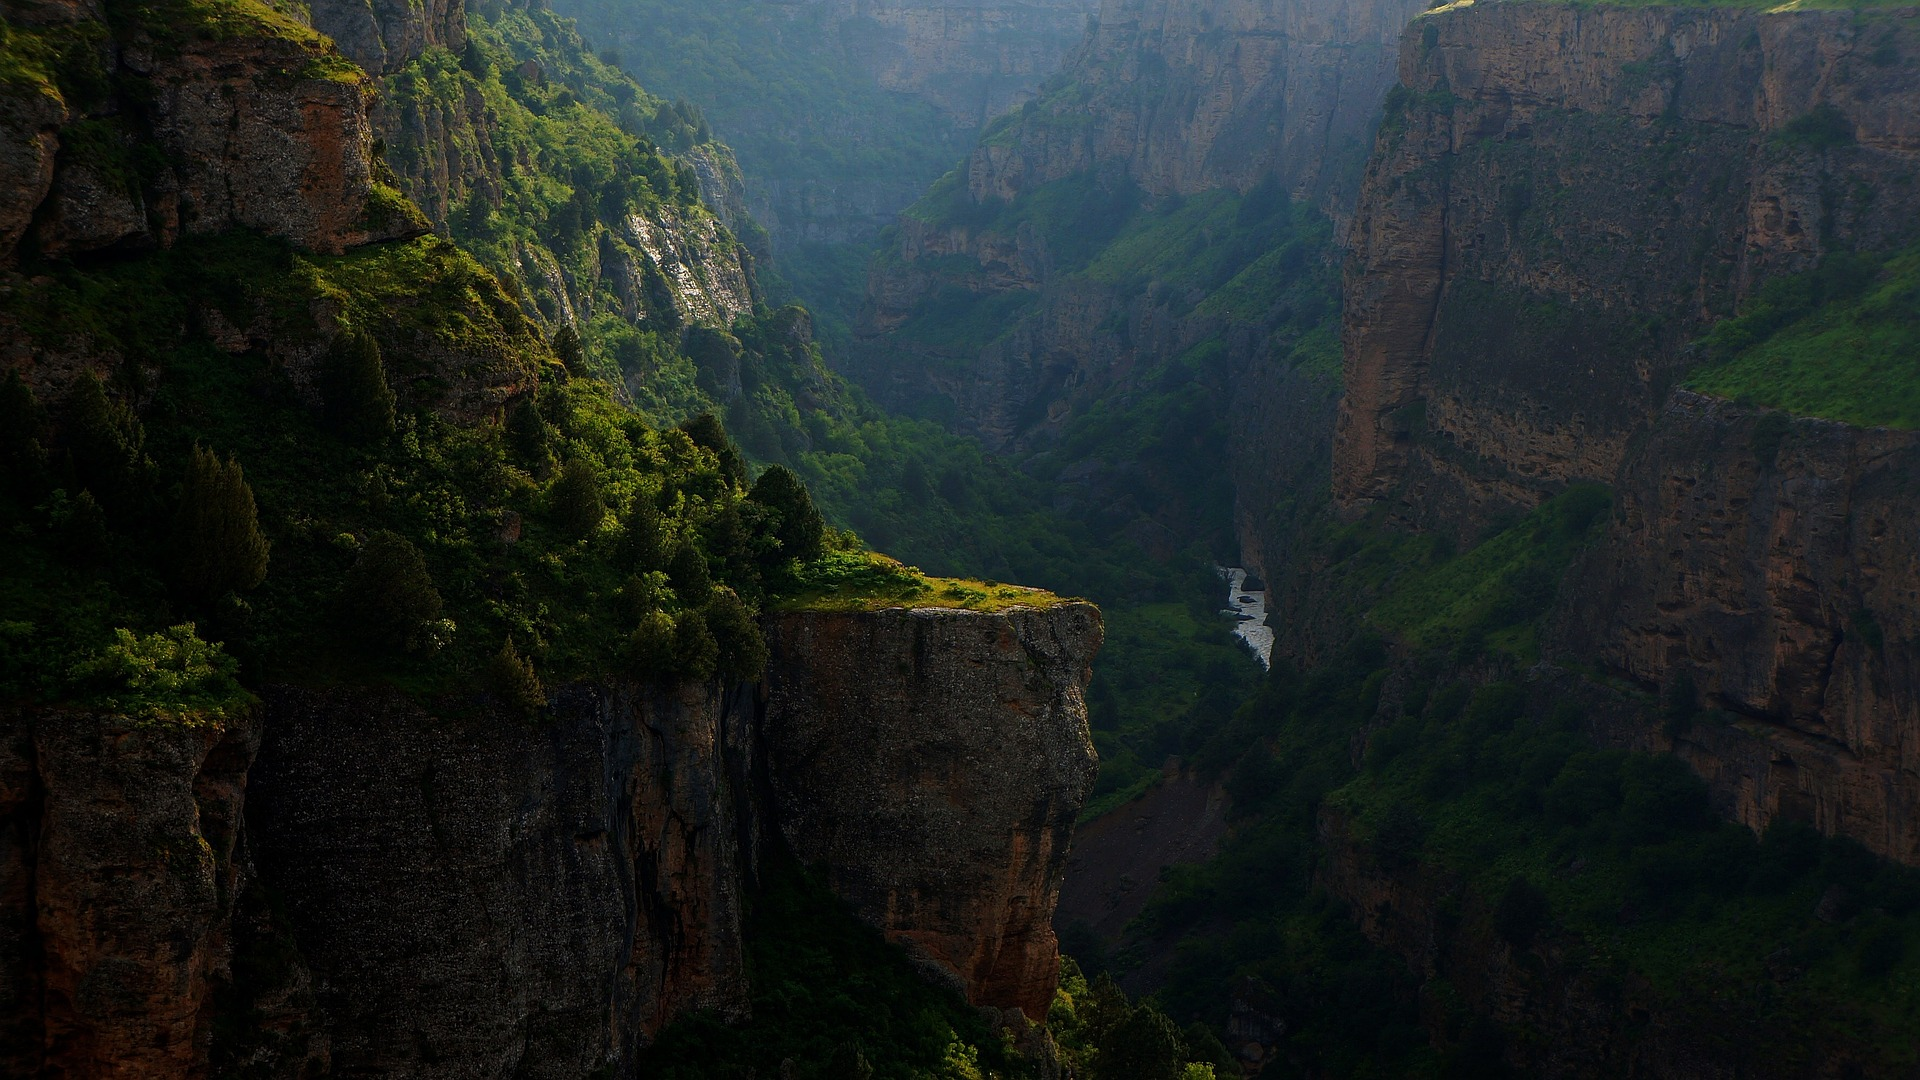
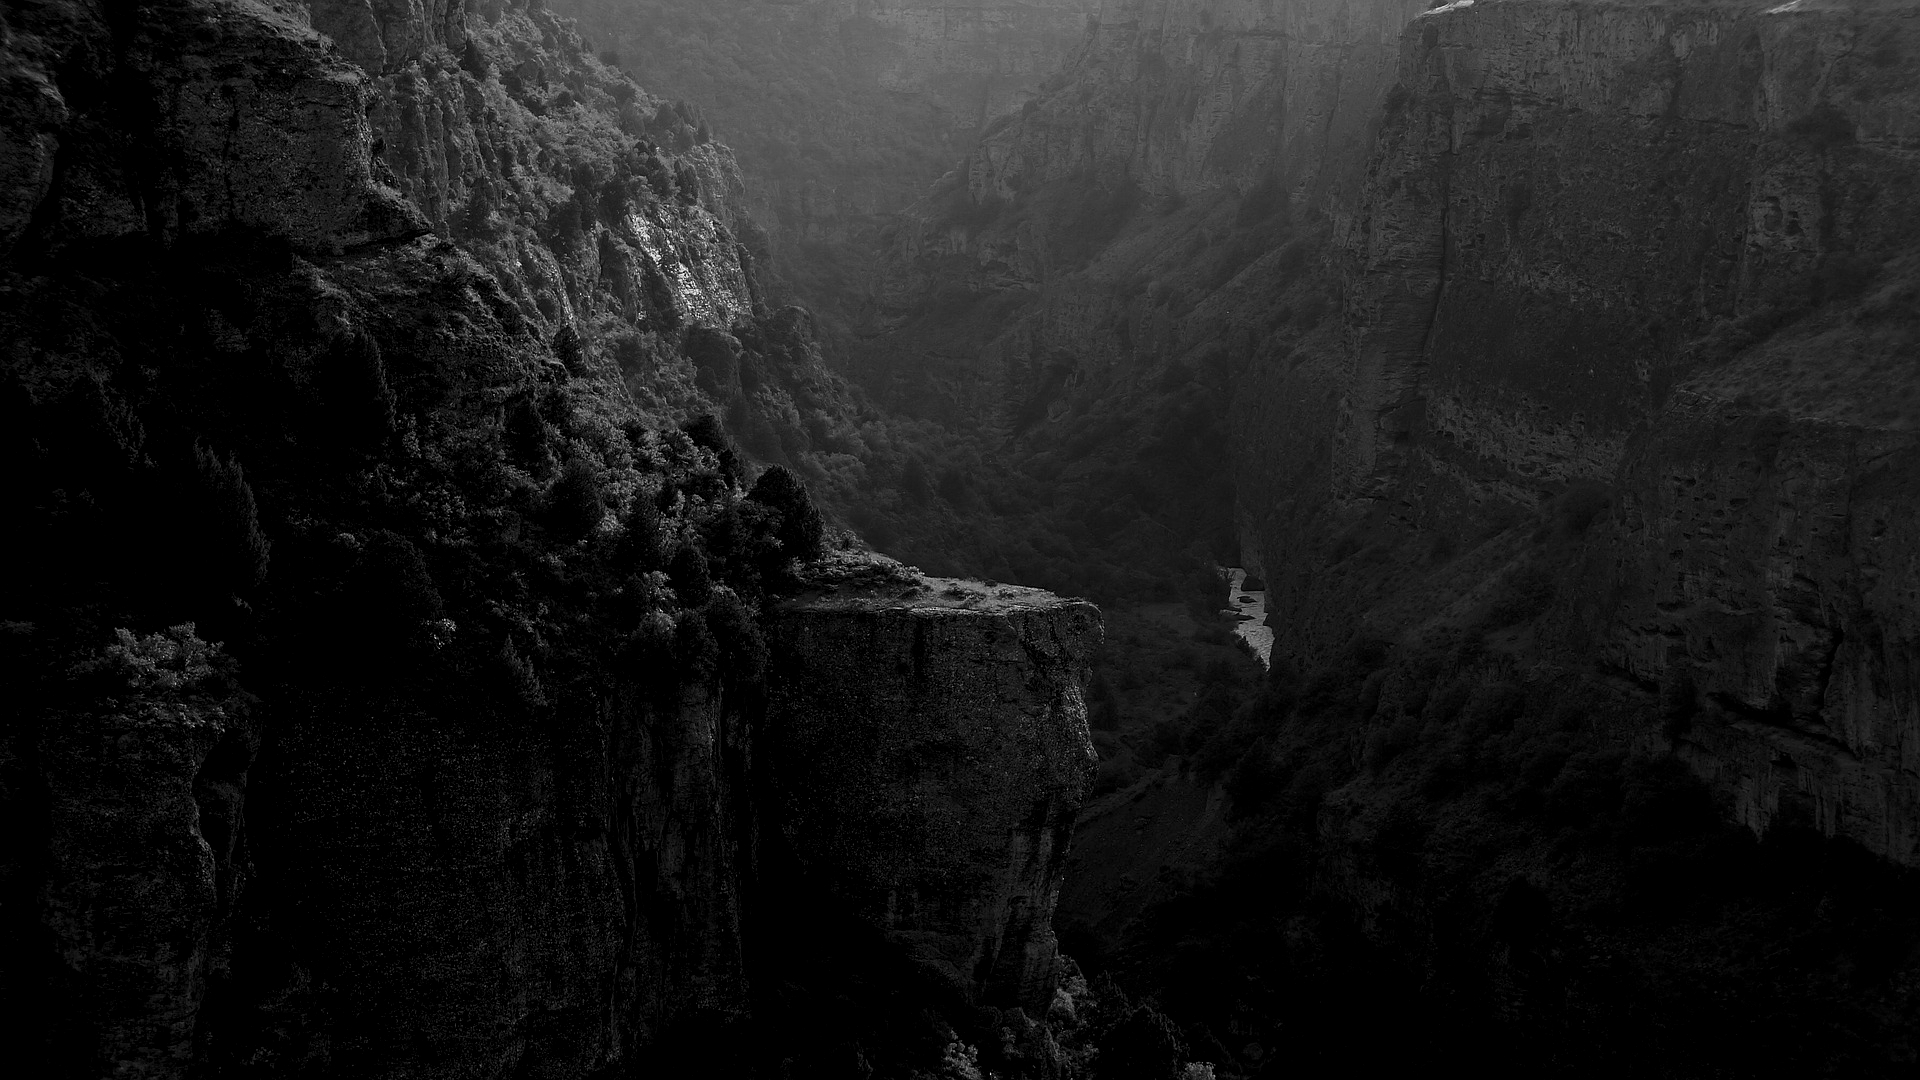
contact background

diff --git a/style.css b/style.css
@@ -1,7 +1,7 @@
 @import url('https://fonts.googleapis.com/css2?family=Poppins&display=swap');
 @import url('https://fonts.googleapis.com/css2?family=Poppins:wght@200;400&display=swap');
 
-head{
+html{
     scroll-behavior: smooth;
 }
 
@@ -291,7 +291,9 @@ nav{
 
 .contactUs{
     background-image: url("/img/canyon-1740973_1920.jpg");
-    
+    background-position: center;
+    background-size: cover;
+
     padding: 25px 0 45px;
 
     display: flex;
@@ -323,7 +325,7 @@ nav{
     border-radius: 5px;
     outline: none;
     border: none;
-    background-color: rgba(255, 255, 255, 0.364);
+    background-color: rgba(105, 105, 105, 0.477);
     color: white;
     text-indent: 15px;
 }
@@ -428,6 +430,7 @@ footer hr{
 }
 .copyright__box{
     color: white;
+    margin-top: 10px;
 }
 
 @media screen and (max-width: 1500px){
